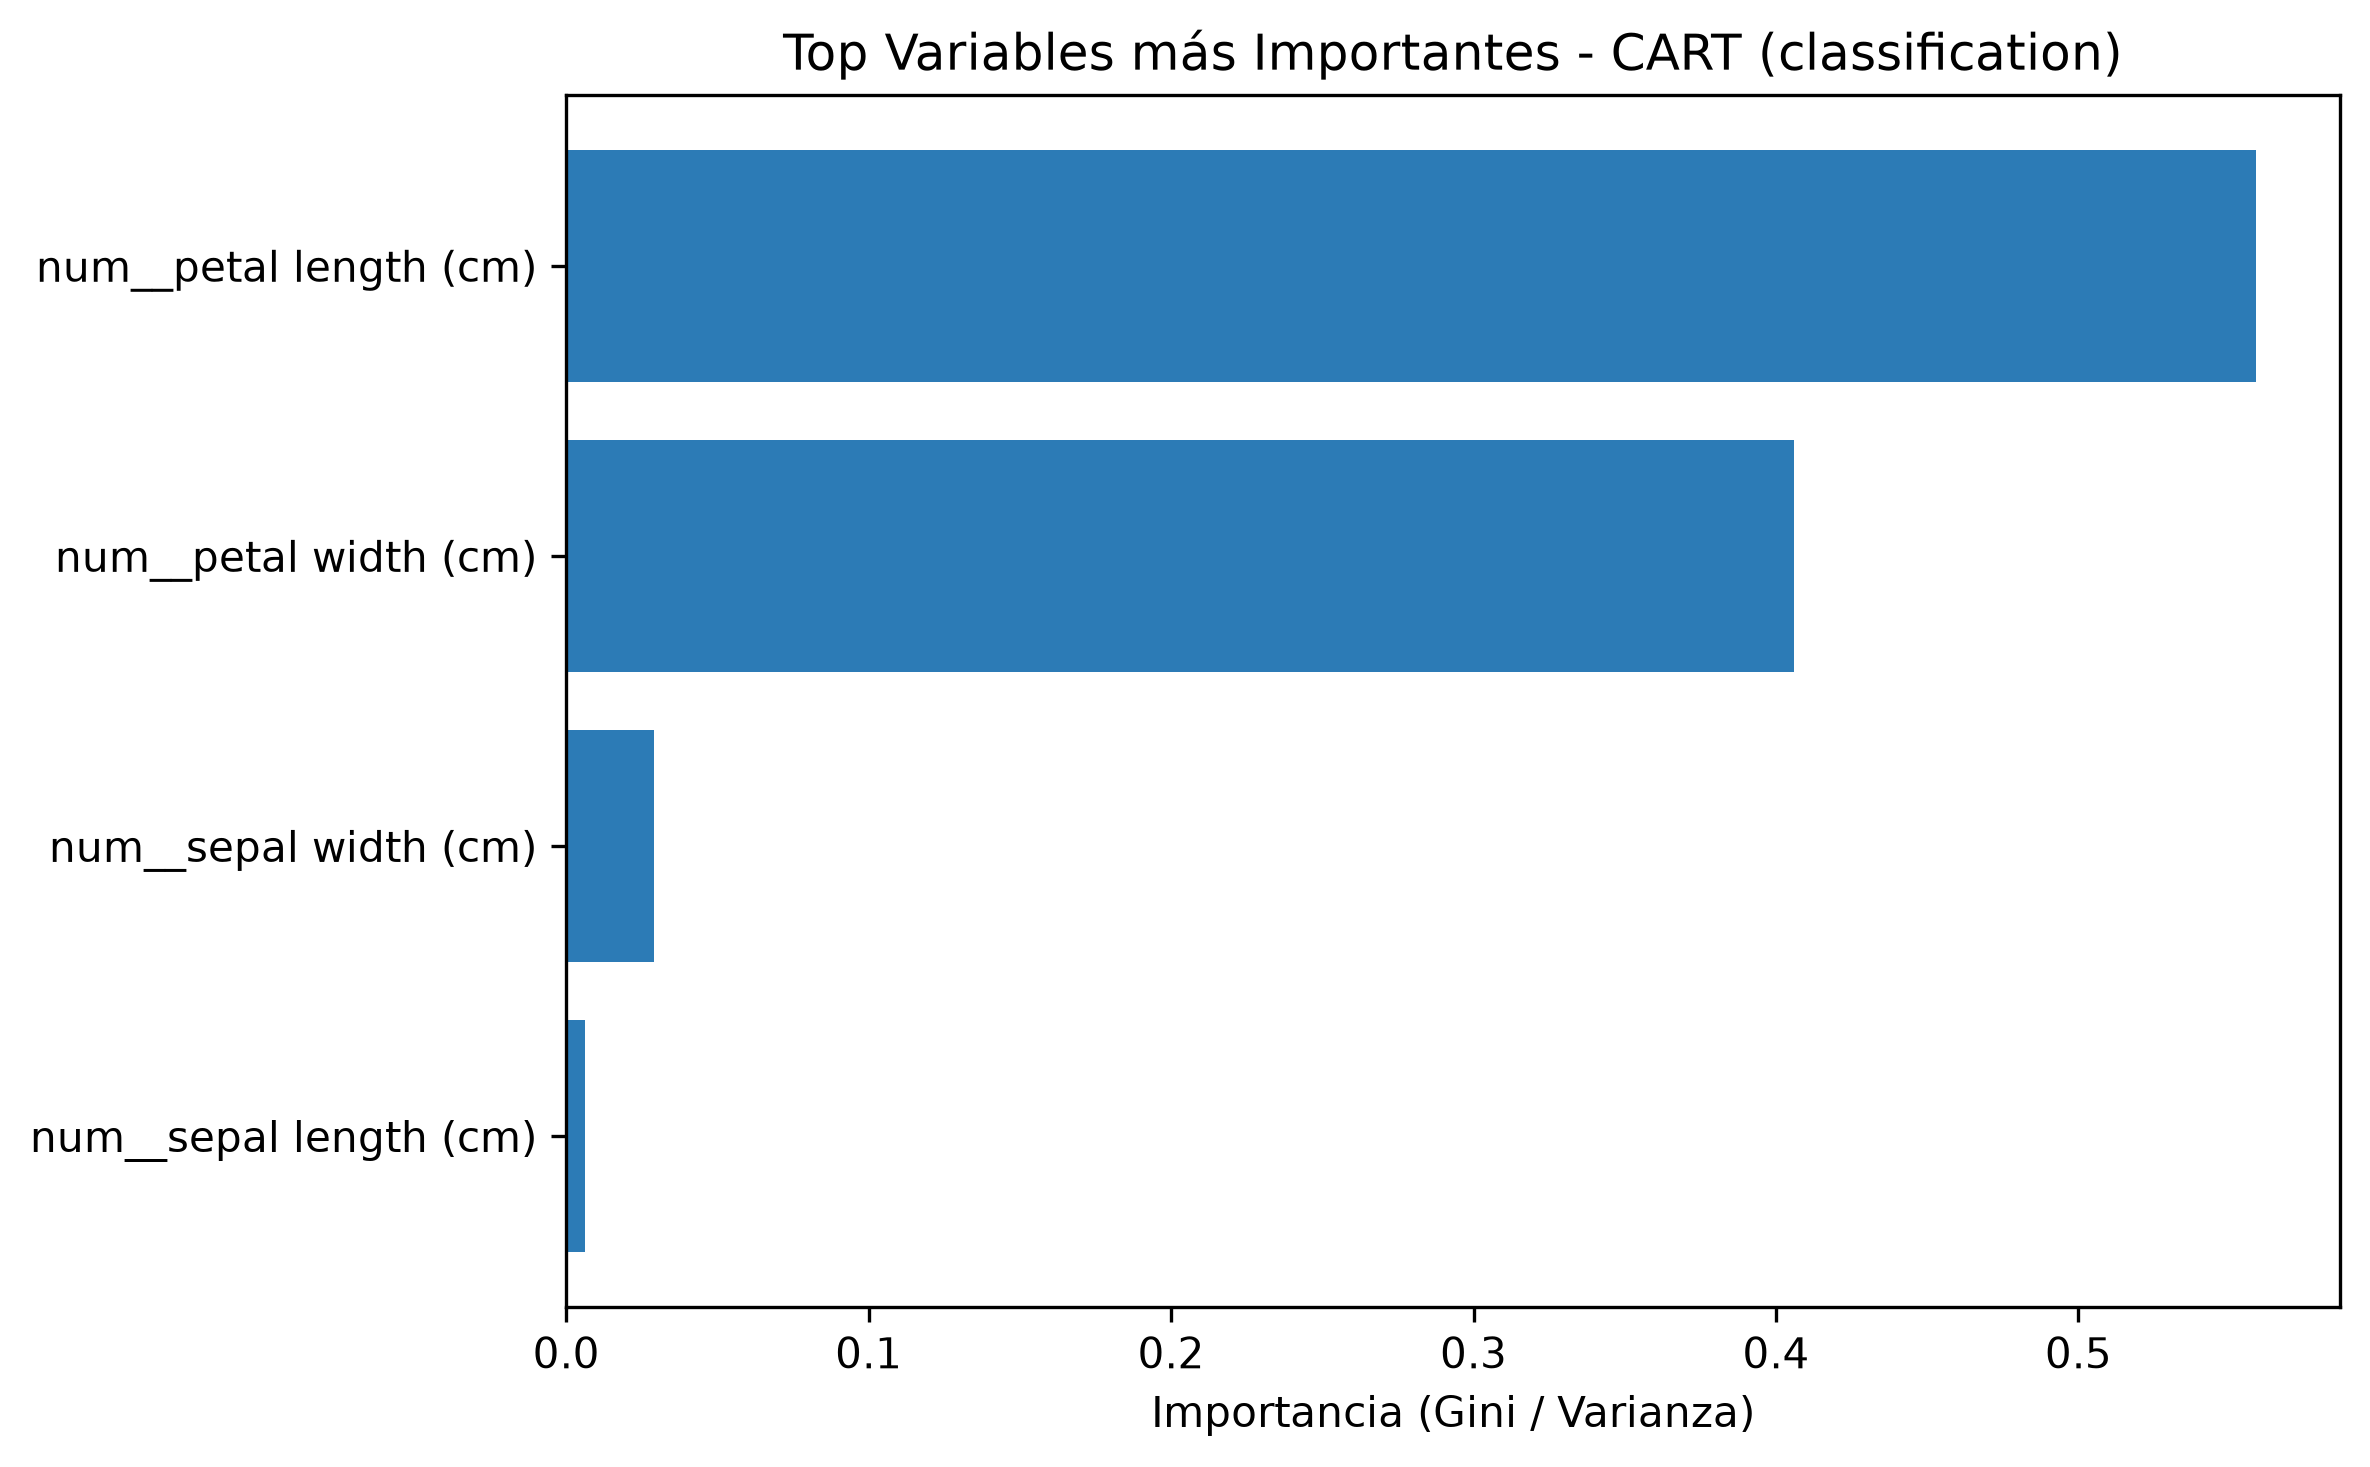
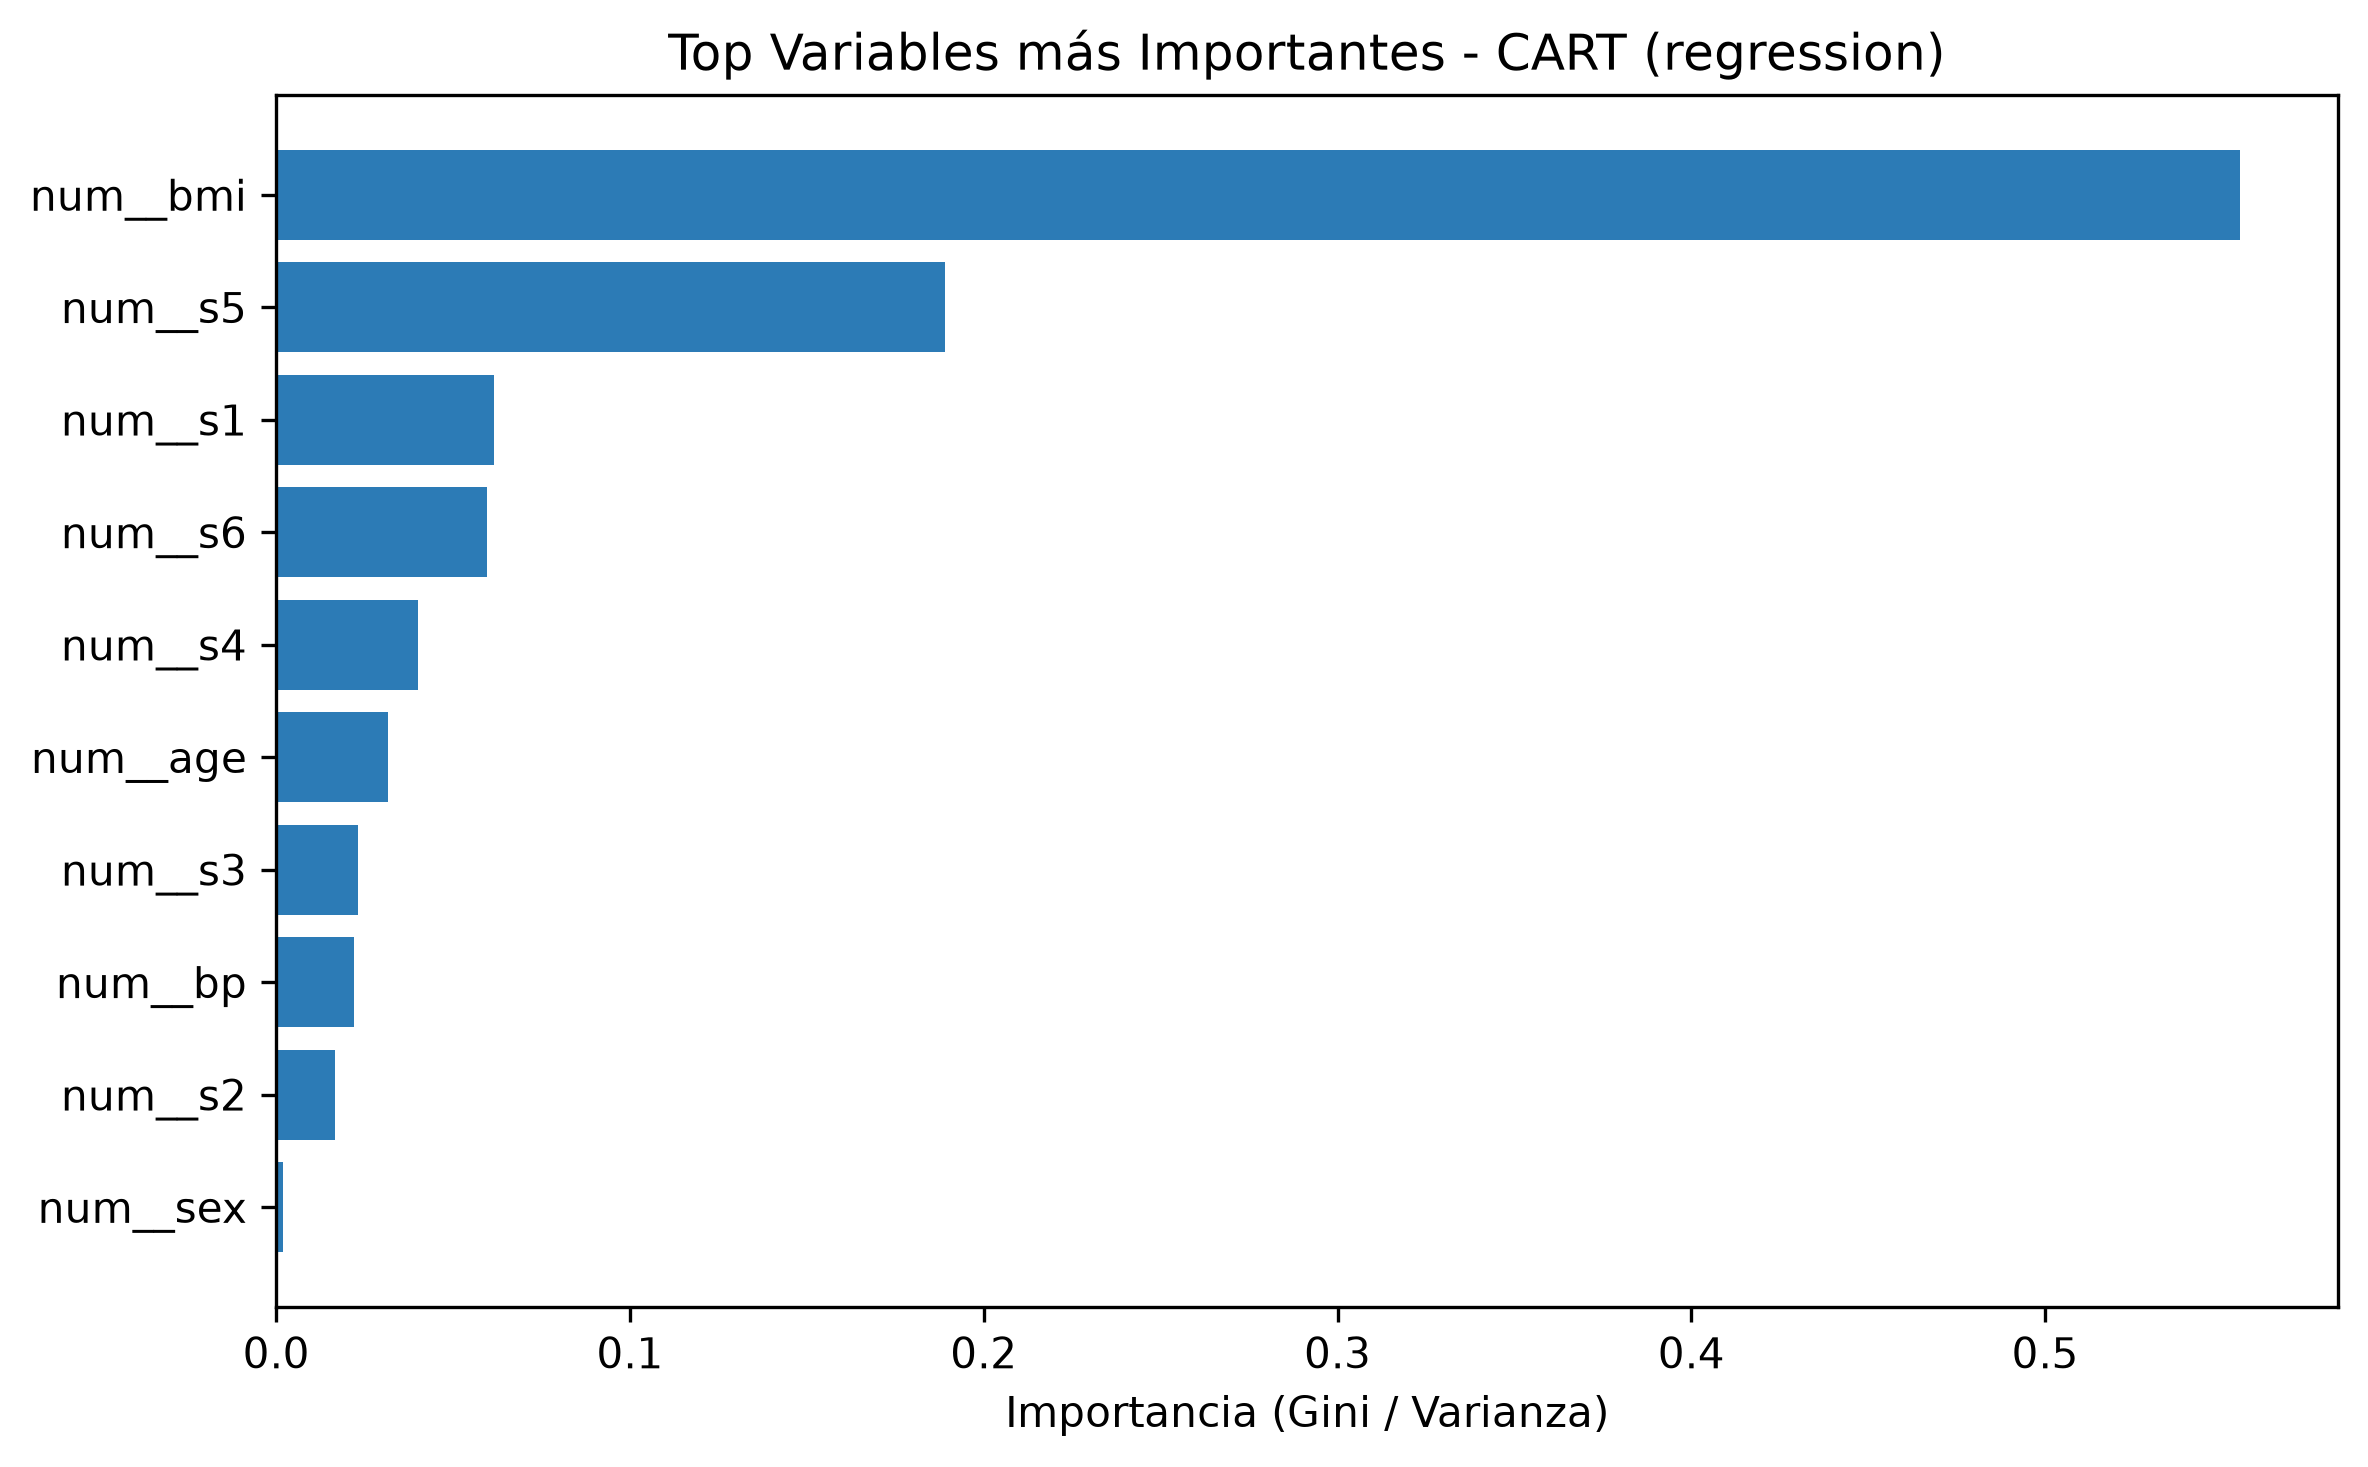
Código completo

diff --git a/main.py b/main.py
@@ -1,5 +1,4 @@
 import argparse
-from pathlib import Path
 import pandas as pd
 from sklearn.datasets import load_iris
 from sklearn.model_selection import train_test_split
@@ -9,6 +8,7 @@ from core.loader import DataLoader
 from core.preprocessor import AdaptivePreprocessor
 from evaluation.metrics import ModelEvaluator
 from models.supervised.knn_model import KNNModel
+from models.supervised.linear_models import LinearModel
 from models.supervised.tree_models import CARTModel
 from models.unsupervised.kmeans_engine import KMeansEngine
 
@@ -19,6 +19,8 @@ def run_pipeline(file_path: str):
     # 1. Ingesta Inteligente
     loader = DataLoader(file_path)
     df = loader.load_data()
+    if df is None:
+        return
     target_col, task_type = loader.detect_target(df)
 
     # 2. Análisis Exploratorio Automatizado (EDA)
@@ -49,9 +51,11 @@ def run_pipeline(file_path: str):
     models_to_run = {
         "cart": CARTModel(task=task_type, reports_dir="reports"),
         "knn": KNNModel(task=task_type),
+        "ridge": LinearModel(task=task_type),
     }
 
     evaluator = ModelEvaluator(task=task_type, reports_dir="reports")
+    results_summary = {}
 
     for name, model in models_to_run.items():
         print(f"\n--- Entrenando modelo: {name.upper()} ---")
@@ -62,18 +66,20 @@ def run_pipeline(file_path: str):
         model.fit(X_train_clean, y_train)
         y_pred = model.predict(X_test_clean)
 
-        evaluator.evaluate(y_test, y_pred, model_name=name)
+        results_summary[name.upper()] = evaluator.evaluate(y_test, y_pred, model_name=name)
         model.save()
 
         if name == "cart":
             model.plot_feature_importance(prep.feature_names_out)
 
+    print("\n=== Resumen Comparativo de Modelos ===")
+    summary_df = pd.DataFrame(results_summary).T
+    print(summary_df.round(4))
+
 
 def create_demo_csv(path="data_demo_iris.csv"):
-    """Genera un CSV rápido de prueba si no se pasa un archivo."""
     iris = load_iris(as_frame=True)
-    df = iris.frame
-    df.to_csv(path, index=False)
+    iris.frame.to_csv(path, index=False)
     return path
 
 

diff --git a/models/supervised/linear_models.py b/models/supervised/linear_models.py
@@ -1,0 +1,47 @@
+from pathlib import Path
+import joblib
+from sklearn.linear_model import LogisticRegression, Ridge
+from sklearn.metrics import accuracy_score, r2_score
+from models.base import BaseModel
+
+
+class LinearModel(BaseModel):
+    """
+    Modelo lineal regularizado (L2).
+    Usa LogisticRegression para clasificación y Ridge para regresión.
+    """
+
+    def __init__(self, task="classification", alpha=1.0, random_state=42):
+        self.task = task.lower()
+        self.alpha = alpha
+        self.random_state = random_state
+
+        if self.task == "classification":
+            self.model = LogisticRegression(C=1.0 / self.alpha, max_iter=1000, random_state=self.random_state)
+        elif self.task == "regression":
+            self.model = Ridge(alpha=self.alpha, random_state=self.random_state)
+        else:
+            raise ValueError("El parámetro 'task' debe ser 'classification' o 'regression'.")
+
+    def fit(self, X, y=None):
+        if y is None:
+            raise ValueError("LinearModel requiere una variable objetivo 'y' para entrenar.")
+        self.model.fit(X, y)
+        return self
+
+    def predict(self, X):
+        return self.model.predict(X)
+
+    def score(self, X, y=None):
+        if y is None:
+            raise ValueError("Se requiere 'y' para calcular el score.")
+        y_pred = self.predict(X)
+        if self.task == "classification":
+            return accuracy_score(y, y_pred)
+        return r2_score(y, y_pred)
+
+    def save(self, filepath="reports/linear_model.joblib"):
+        path = Path(filepath)
+        path.parent.mkdir(parents=True, exist_ok=True)
+        joblib.dump(self.model, path)
+        print(f"[LinearModel] Modelo guardado en: '{path}'")

diff --git a/README.md b/README.md
@@ -1,0 +1,15 @@
+# Framework Modular de Machine Learning
+
+Framework orientado a objetos en Python para ingesta automática, análisis exploratorio (EDA), preprocesamiento adaptativo sin *Data Leakage* y evaluación de modelos supervisados y no supervisados.
+
+## Estructura del Proyecto
+- `core/`: Ingesta (`loader.py`), diagnóstico estadístico (`eda.py`) y preprocesamiento adaptativo (`preprocessor.py`).
+- `models/`: Clase base abstracta (`base.py`), modelos supervisados (`CART`, `k-NN`, `Ridge/Logística`) y motor no supervisado (`KMeansEngine`).
+- `evaluation/`: Cálculo automático de métricas y exportación de gráficos en 300 DPI (`metrics.py`).
+- `main.py`: Orquestador del flujo completo.
+
+## Instalación y Uso
+```bash
+python -m venv venv
+.\venv\Scripts\Activate.ps1
+pip install -r requirements.txt
